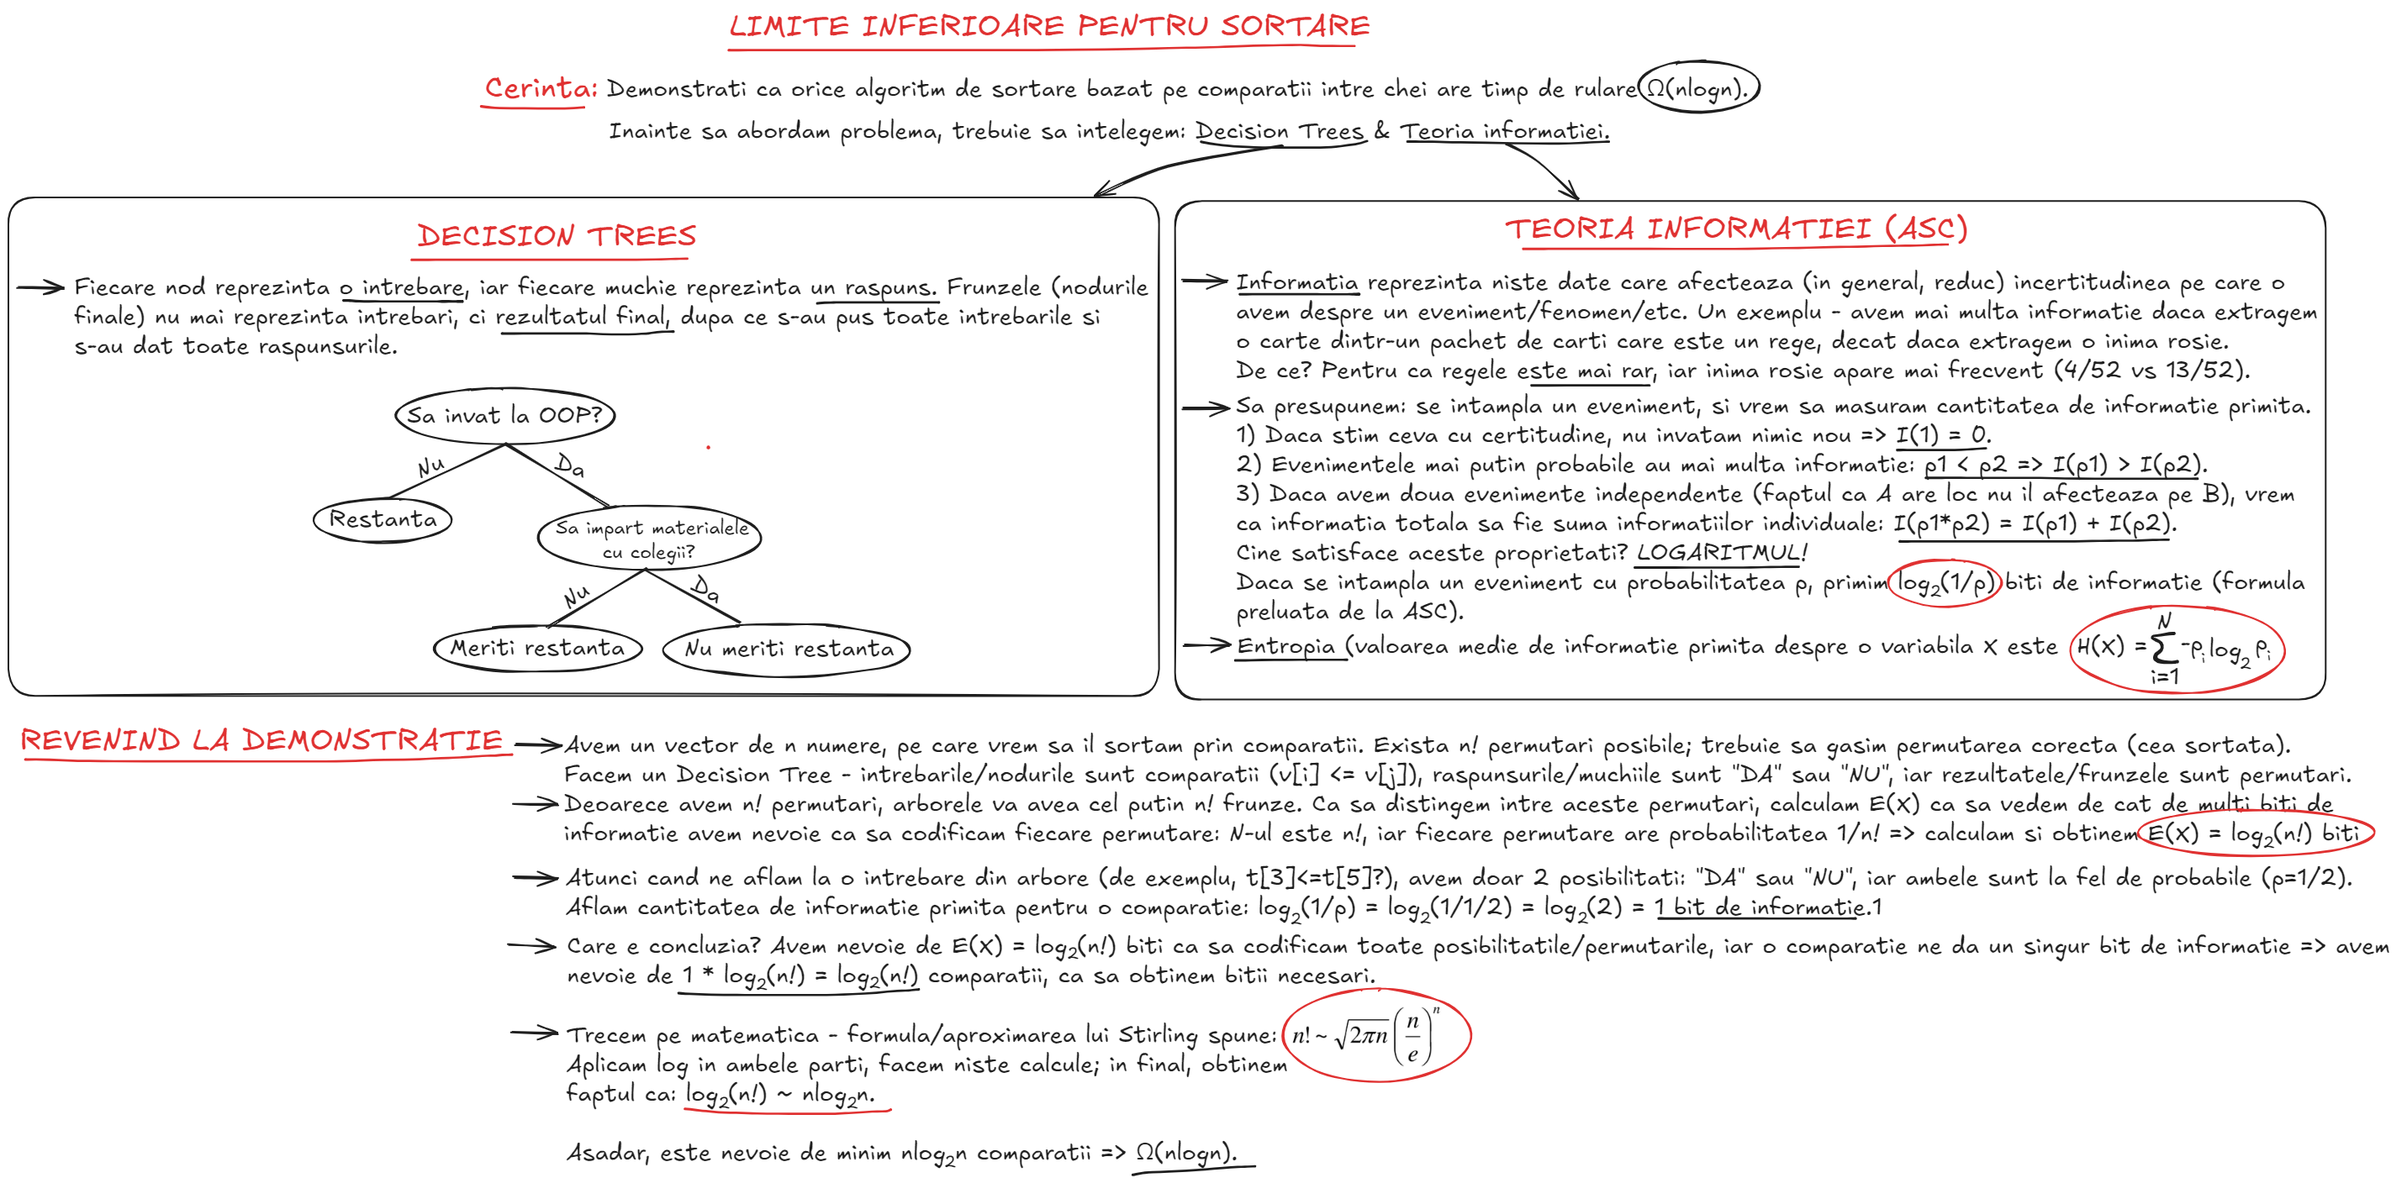
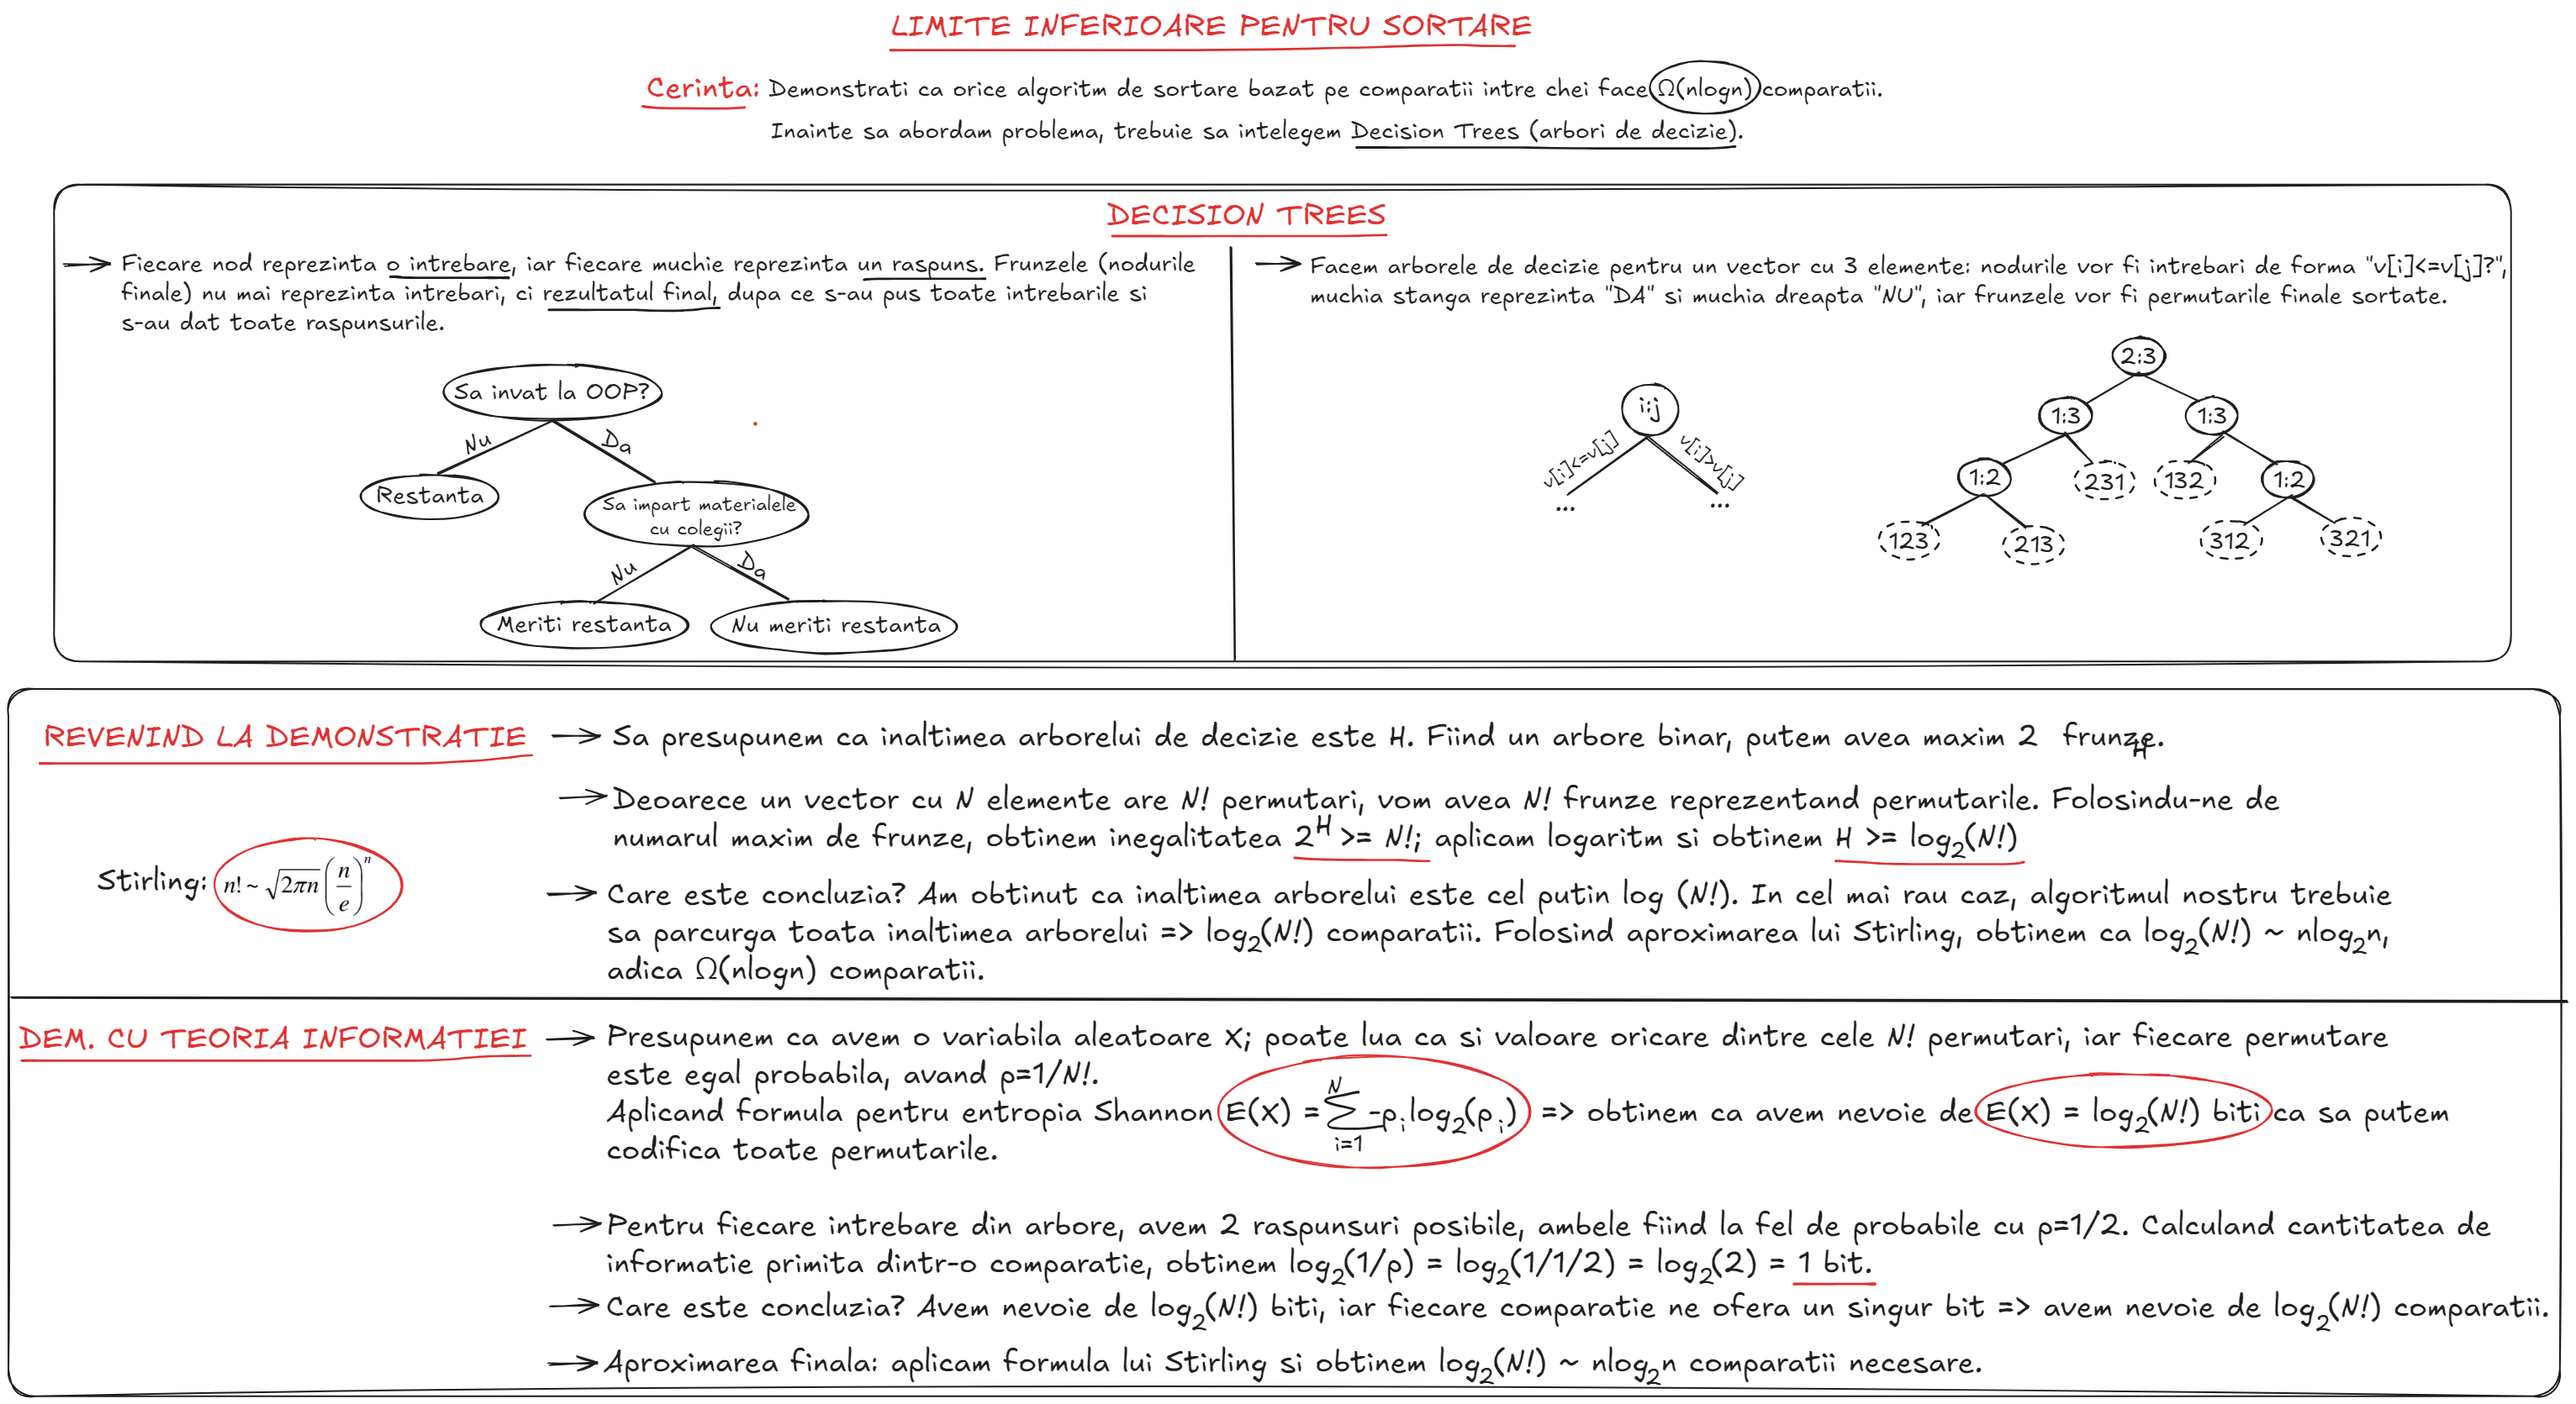
updated proof of lower bound

Changed region(s): [[0.0, 0.0, 0.9948, 1.0], [0.9015, 0.8438, 0.9326, 0.875], [0.8393, 0.8438, 0.8704, 0.875]]

diff --git a/TUTORIAT 3/README.md b/TUTORIAT 3/README.md
@@ -203,7 +203,7 @@ void f(struct node* head) {
 3. Cate muchii are un arbore binar complet cu <b>n</b> noduri?
 4. Sa se construiasca un <b>min-heap</b> obtinut prin insertia pe rand a urmatoarelor chei: <b>{40, 22, 2, 18, 19, 5, 3}</b>. Apoi, sa se extraga radacina din heap-ul rezultat.
 5. Sa se construiasca arborele binar obtinut prin insertia pe rand a urmatoarelor chei: <b>{15, 22, 2, 18, 19, 40, 30, 16, 50}</b>. Sa se stearga nodul <b>22</b>.
-6. Demonstrati ca orice algoritm de sortare bazat pe comparatii intre chei are timp de rulare <b>Ω(nlogn)</b>.
+6. Demonstrati ca orice algoritm de sortare bazat pe comparatii intre chei efectueaza <b>Ω(nlogn)</b> comparatii.
 7. Rezolvati urmatoarele recurente si demonstrati: 
     - <b>T(n) = T(n/4) + T(3n/4) + logn</b>.
     - <b>T(n) = T(n/100) + T(99n/100) + n</b>.
